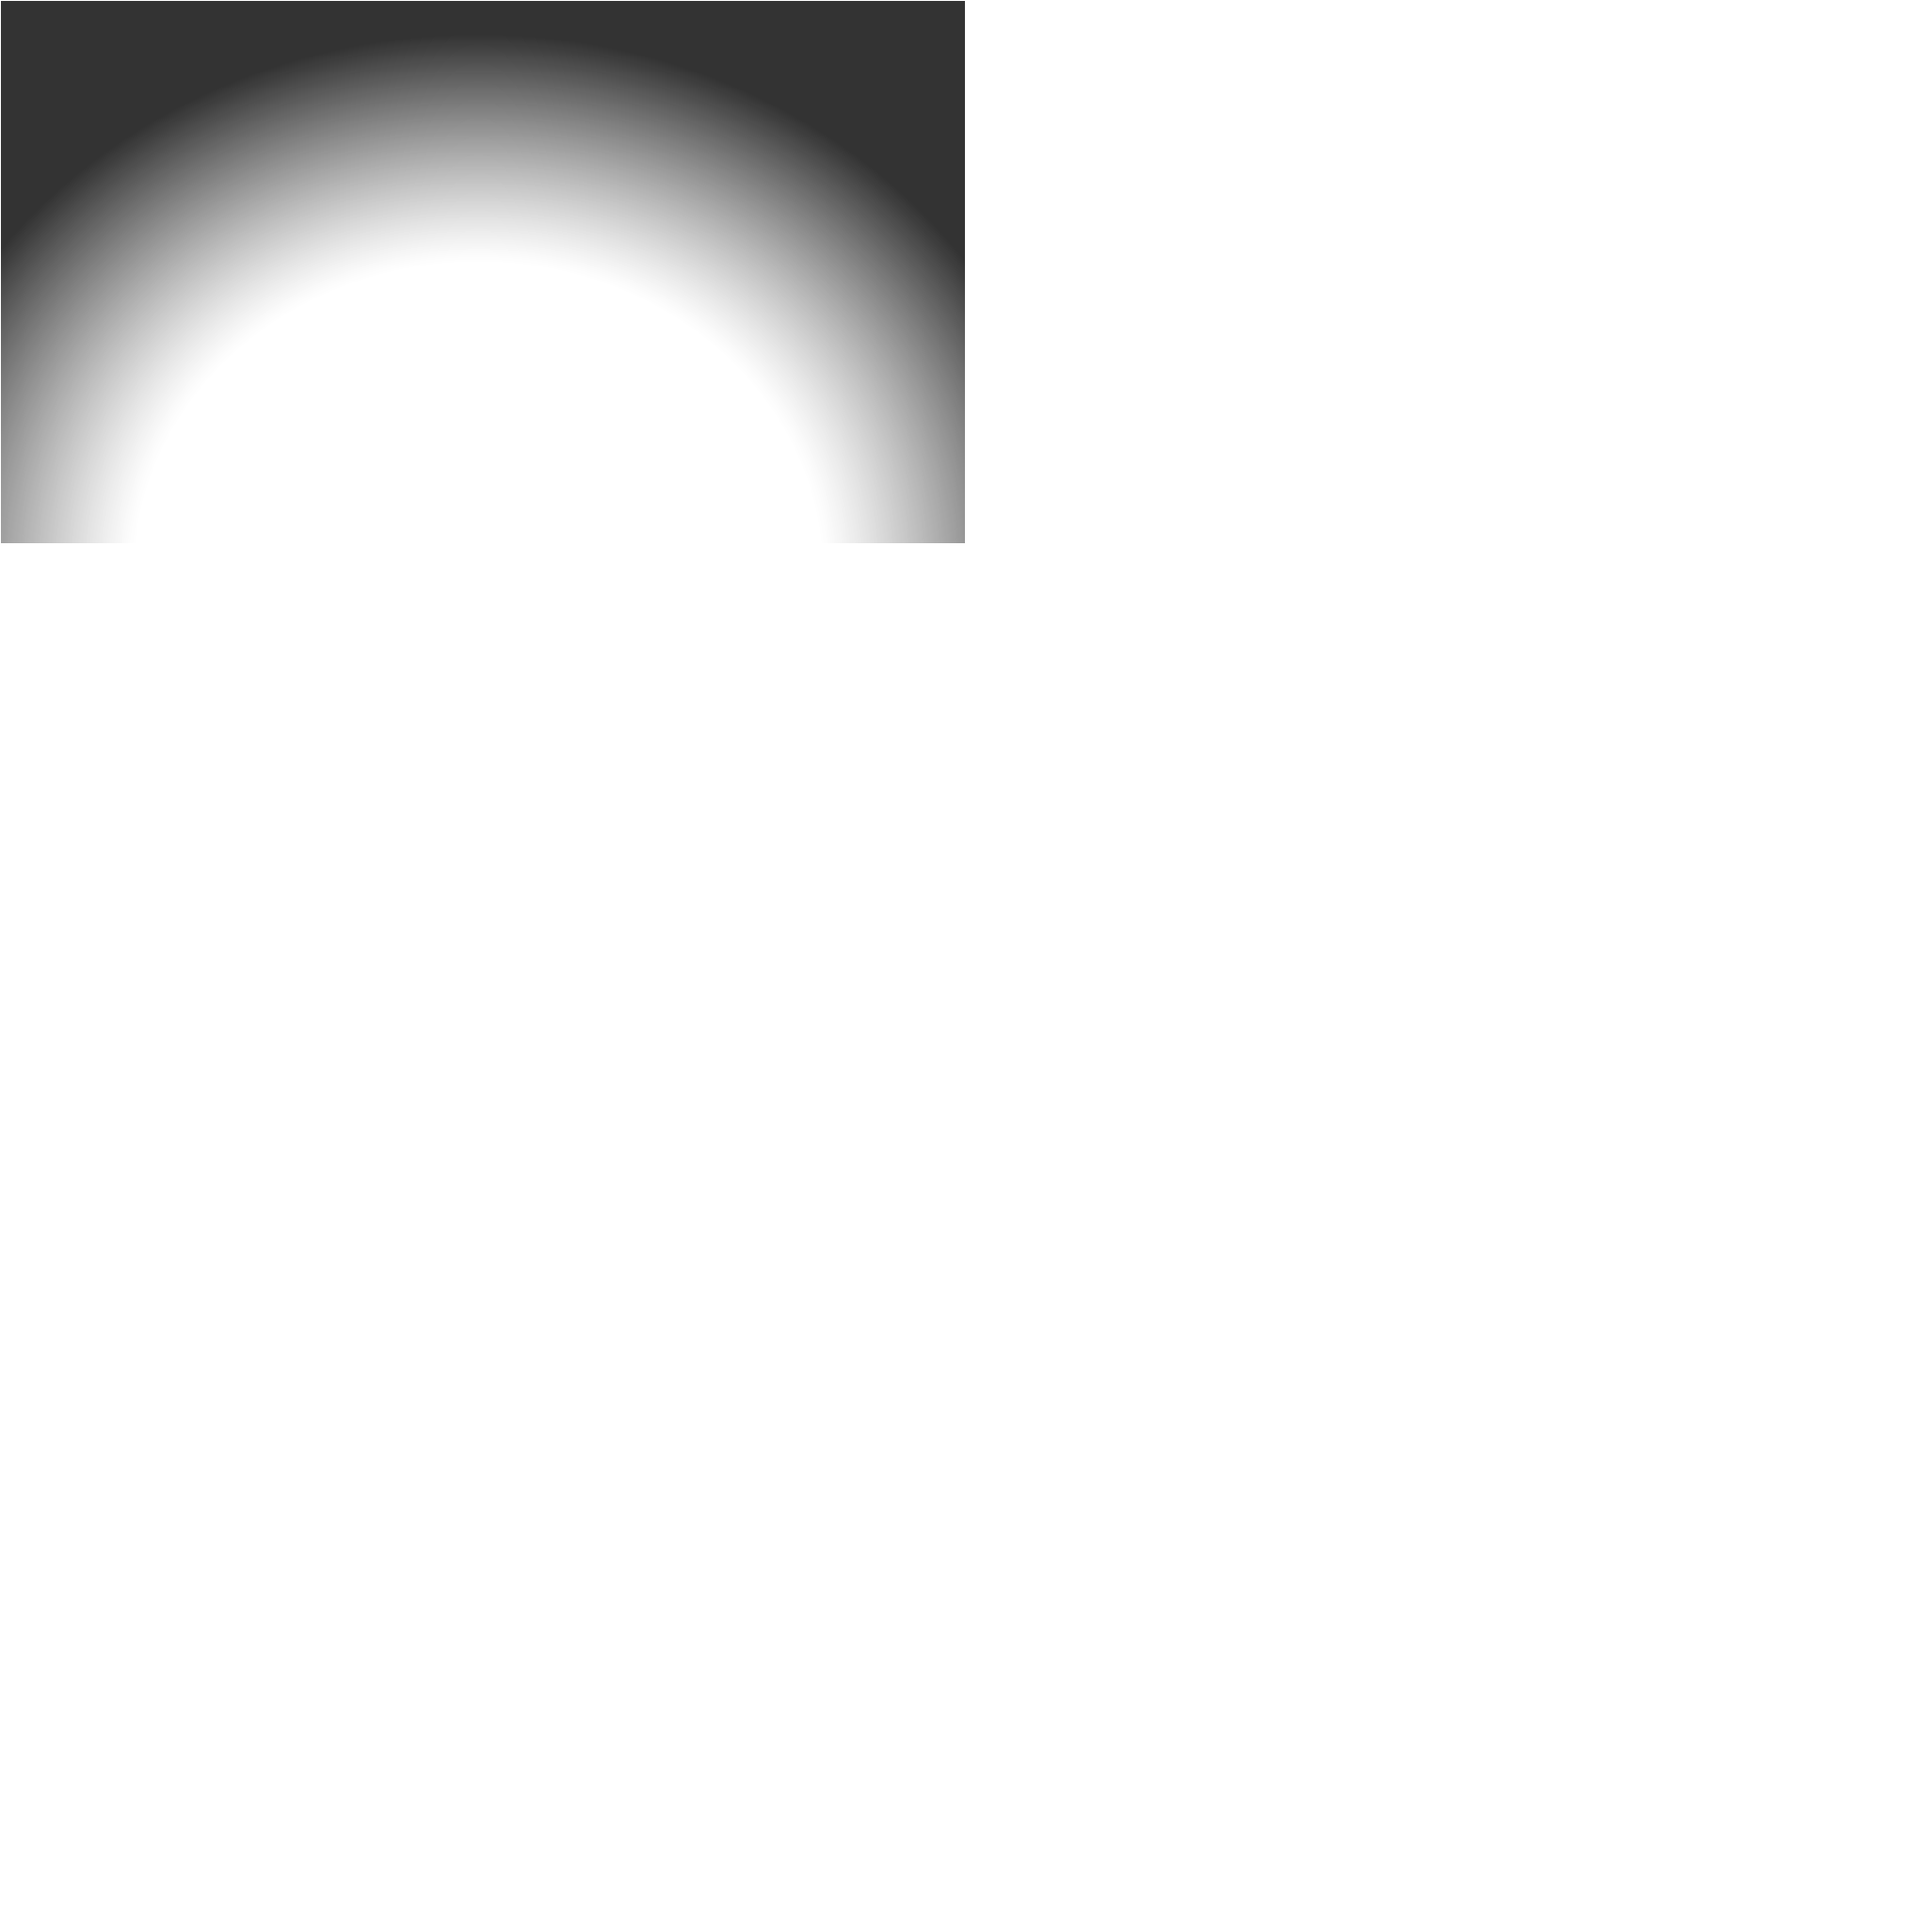
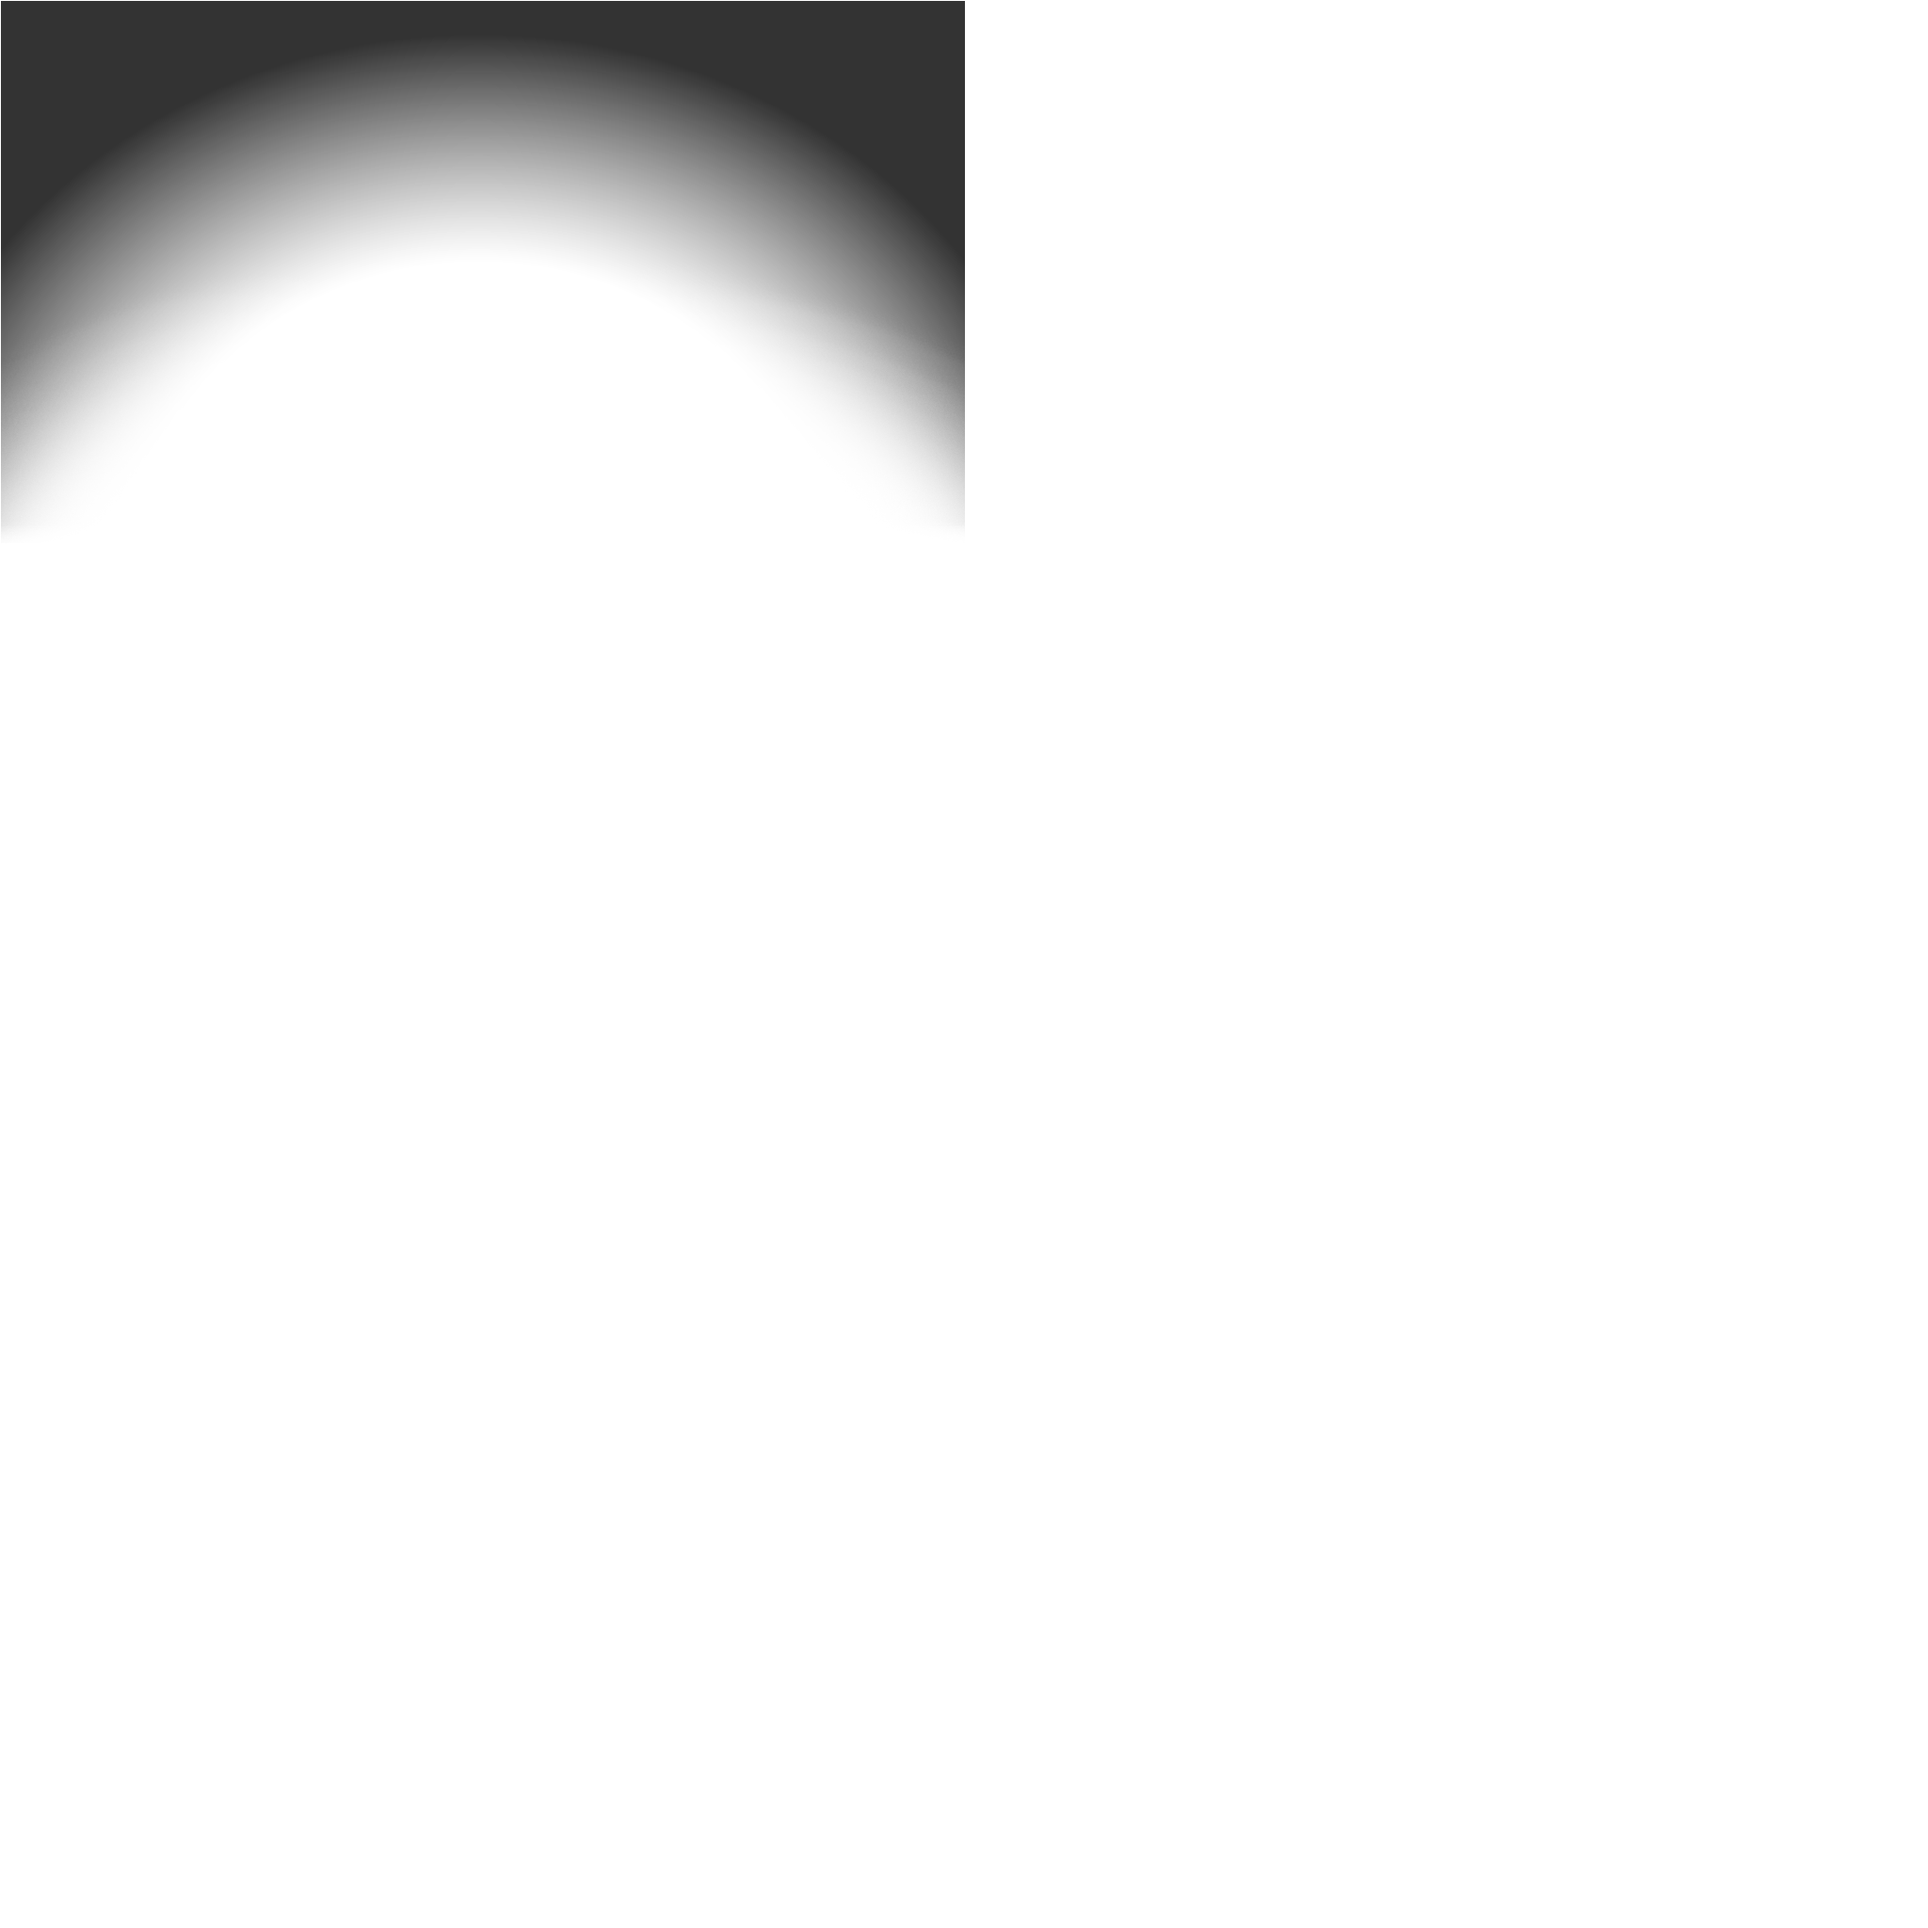
added sun

Changed region(s): [[0.4375, 0.1875, 0.5, 0.2812], [0.0, 0.1875, 0.0625, 0.2812]]

diff --git a/vox/Source/vox/src/PuppetScene.cpp b/vox/Source/vox/src/PuppetScene.cpp
@@ -86,7 +86,8 @@ PuppetScene::PuppetScene(PuppetGame * _game, float seconds, float _width, float 
 	screenSurfaceShader(new Shader("../assets/RenderSurfacePlus", false, true)),
 	screenSurface(new RenderSurface(screenSurfaceShader)),
 	screenFBO(new StandardFrameBuffer(true)),
-	ghostPosition(0)
+	ghostPosition(0),
+	sun(nullptr)
 {
 	world->b2world->SetContactListener(cl);
 	shader->components.push_back(new ShaderComponentTexture(shader));
@@ -469,6 +470,10 @@ void PuppetScene::update(Step * _step){
 		}
 	}
 
+	if(sun != nullptr){
+		sun->transform->rotate(_step->deltaTimeCorrection*0.05f, 0, 0, 1, kOBJECT);
+//		sun->transform->setOrientation(glm::quat(glm::angleAxis(sin(currentTime)*6.28f, glm::vec3(0, 0, 1))));
+	}
 
 	// camera control
 	if (keyboard->keyJustUp(GLFW_KEY_1)){
@@ -680,7 +685,6 @@ void PuppetScene::populateBackground(){
 	stageFloor = new MeshEntity(Resource::loadMeshFromObj("../assets/hurly-burly/stageFloor.vox"));
 	stageFront = new MeshEntity(Resource::loadMeshFromObj("../assets/hurly-burly/stageFront.vox"));
 
-
 	stageFloor->setShader(shader, true);
 	stageFloor->transform->scale(1000, 100, 100);
 	stageFloor->transform->translate(50.f / 2.f, 0, -15.f / 2.f);
@@ -691,7 +695,6 @@ void PuppetScene::populateBackground(){
 		v.v *= 100;
 	}
 	stageFloor->mesh->dirty = true;
-
 
 	stageFront->setShader(shader, true);
 	stageFront->transform->scale(1000, 100, 100);
@@ -740,6 +743,13 @@ void PuppetScene::populateBackground(){
 			addChild(randomGround, 0);
 		}
 	}
+	
+	sun = new MeshEntity(MeshFactory::getPlaneMesh());
+	sun->setShader(shader, true);
+	sun->transform->translate(10, sceneHeight-10, 0.f);
+	sun->transform->scale(12, 12, 1);
+	sun->mesh->pushTexture2D(PuppetResourceManager::sun);
+	addChild(sun, 0);
 }
 
 void PuppetScene::populateClouds(){

diff --git a/vox/Source/vox/src/PuppetResourceManager.cpp b/vox/Source/vox/src/PuppetResourceManager.cpp
@@ -24,6 +24,7 @@ Texture * PuppetResourceManager::tree1  = new Texture("../assets/hurly-burly/Fol
 Texture * PuppetResourceManager::tree2	= new Texture("../assets/hurly-burly/Foliage/Tree2.png", 1024, 1024, true, true);
 Texture * PuppetResourceManager::bush1	= new Texture("../assets/hurly-burly/Foliage/Bush1.png", 1024, 1024, true, true);
 Texture * PuppetResourceManager::bush2	= new Texture("../assets/hurly-burly/Foliage/Bush2.png", 1024, 1024, true, true);
+Texture * PuppetResourceManager::sun	= new Texture("../assets/hurly-burly/Sun.png", 1024, 1024, true, true);
 
 Texture * PuppetResourceManager::cloud1 = new Texture("../assets/hurly-burly/Clouds/Cloud1.png", 1024, 1024, true, true);
 Texture * PuppetResourceManager::cloud2 = new Texture("../assets/hurly-burly/Clouds/Cloud2.png", 1024, 1024, true, true);
@@ -89,6 +90,7 @@ void PuppetResourceManager::init(){
 	resources.push_back(tree2);
 	resources.push_back(bush1);
 	resources.push_back(bush2);
+	resources.push_back(sun);
 
 	resources.push_back(cloud1);
 	resources.push_back(cloud2);

diff --git a/vox/Source/vox/include/PuppetScene.h b/vox/Source/vox/include/PuppetScene.h
@@ -85,6 +85,7 @@ public:
 	Shader * screenSurfaceShader;
 	RenderSurface * screenSurface;
 	StandardFrameBuffer * screenFBO;
+	MeshEntity * sun;
 	float screenShaderSetting;
 
 	explicit PuppetScene(PuppetGame * _game, float time, float _width = 170.f, float _height = 50.f, float _size = 100.f, bool _fullCurtains = false);

diff --git a/vox/Source/vox/src/Sound.cpp b/vox/Source/vox/src/Sound.cpp
@@ -5,7 +5,7 @@
 #include <iostream>
 #include <libzplay.h>
 
-unsigned long int Sound::masterVolume = 100;
+unsigned long int Sound::masterVolume = 0;
 
 Sound::Sound() :
 	player(libZPlay::CreateZPlay())

diff --git a/vox/Source/vox/include/PuppetResourceManager.h b/vox/Source/vox/include/PuppetResourceManager.h
@@ -20,6 +20,7 @@ public:
 	static Texture * tree2;	
 	static Texture * bush1;
 	static Texture * bush2;
+	static Texture * sun;
 
 	static Texture * cloud1;
 	static Texture * cloud2;
